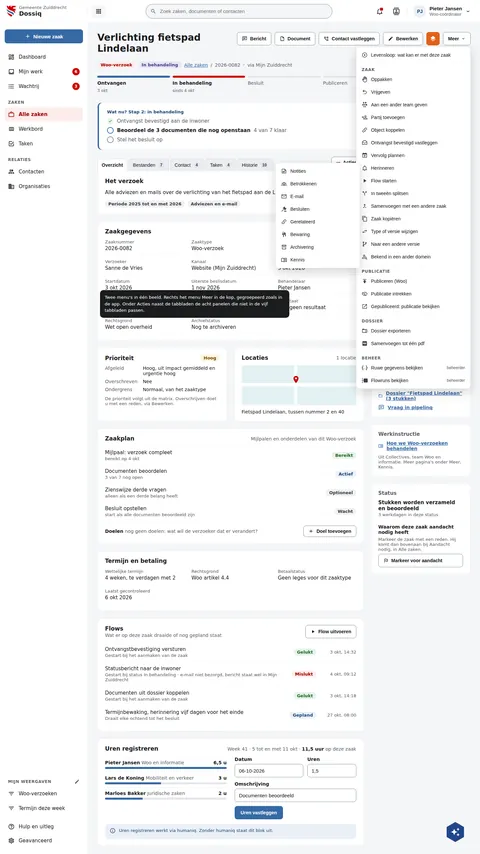
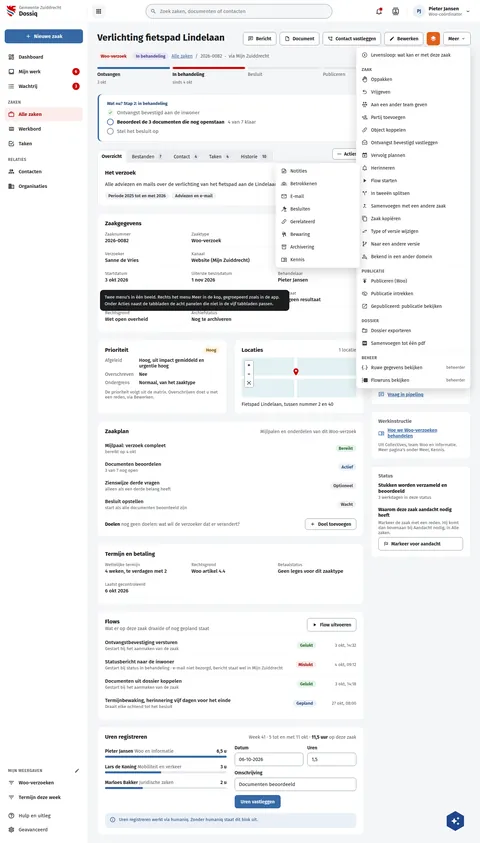
feat(screens): record boards gain live extras: the klantbeeld card and the map controls (#346)
Ruben 21 Oct: live extras the boards lack go onto the boards.
- DqZaakContact: "Contactmomenten in het klantbeeld" (pipelinq's contact
  moments on the case), as live draws it under the live conversation.
- DqZaak and DqZaakMeer: the Locaties map carries its zoom in, zoom out
  and fit-all controls, as the live map does.

Assisted-by: ClaudeCode:claude-opus-5-5

diff --git a/preview/screens/boards/DqZaakContact.html b/preview/screens/boards/DqZaakContact.html
@@ -354,7 +354,7 @@ a{color:var(--sc-primary, #3669a5)}a:hover{color:var(--sc-primary-deep, #234a78)
                 </table>
               </div>
             </section>
-<section style="background: #ffffff; border: 1px solid var(--sc-work-line, #e4e6ea); border-radius: 12px; padding: 20px 22px; display: flex; flex-direction: column; gap: 12px"><div style="display: flex; flex-wrap: wrap; justify-content: space-between; align-items: flex-start; gap: 10px"><div style="display: flex; flex-direction: column; gap: 2px; min-width: 0"><h2 style="margin: 0; font-size: 17px; font-weight: 700">Ontvangstbevestiging</h2><span style="font-size: 13px; color: var(--sc-work-muted, #5e6168)">Awb 4:3a: de verzoeker hoort dat het verzoek binnen is</span></div></div><dl style="margin: 0; display: grid; grid-template-columns: repeat(auto-fit, minmax(200px, 1fr)); gap: 10px 20px"><div style="display: flex; flex-direction: column; gap: 3px; padding-bottom: 10px; border-bottom: 1px solid var(--sc-work-soft, #eef0f3)"><dt style="font-size: 13px; color: var(--sc-work-muted, #5e6168)">Ontvangen op</dt><dd style="margin: 0; font-weight: 500">3 okt 2026, 14:10</dd></div><div style="display: flex; flex-direction: column; gap: 3px; padding-bottom: 10px; border-bottom: 1px solid var(--sc-work-soft, #eef0f3)"><dt style="font-size: 13px; color: var(--sc-work-muted, #5e6168)">Buiten werktijd ontvangen</dt><dd style="margin: 0; font-weight: 500">Nee</dd></div><div style="display: flex; flex-direction: column; gap: 3px; padding-bottom: 10px; border-bottom: 1px solid var(--sc-work-soft, #eef0f3)"><dt style="font-size: 13px; color: var(--sc-work-muted, #5e6168)">Termijn start op</dt><dd style="margin: 0; font-weight: 500">3 okt 2026</dd></div><div style="display: flex; flex-direction: column; gap: 3px; padding-bottom: 10px; border-bottom: 1px solid var(--sc-work-soft, #eef0f3)"><dt style="font-size: 13px; color: var(--sc-work-muted, #5e6168)">Uitgaande berichten</dt><dd style="margin: 0; font-weight: 500">Ontvangstbevestiging via Mijn Zuiddrecht, 3 okt 14:32</dd></div></dl><span style="font-size: 13px; color: var(--sc-work-muted, #5e6168)">Ging de bevestiging buiten dossiq om, dan legt u hem vast met Ontvangst bevestigd vastleggen, onder Meer.</span></section><section style="background: #ffffff; border: 1px solid var(--sc-work-line, #e4e6ea); border-radius: 12px; padding: 20px 22px; display: flex; flex-direction: column; gap: 12px"><div style="display: flex; flex-wrap: wrap; justify-content: space-between; align-items: flex-start; gap: 10px"><div style="display: flex; flex-direction: column; gap: 2px; min-width: 0"><h2 style="margin: 0; font-size: 17px; font-weight: 700">Live gesprek</h2><span style="font-size: 13px; color: var(--sc-work-muted, #5e6168)">Een gesprek in Talk, gestart vanuit deze zaak</span></div><span style="display: flex; flex-wrap: wrap; gap: 8px"><button type="button" style="display: inline-flex; align-items: center; gap: 8px; height: 40px; padding: 0 14px; border-radius: 8px; border: 1px solid var(--sc-work-field, #828a95); background: #ffffff; color: var(--sc-work-ink, #1b1c1d); font: 600 14px var(--sc-font, 'Fira Sans'), sans-serif; white-space: nowrap"><svg width="16" height="16" viewbox="0 0 24 24" fill="currentColor" aria-hidden="true"><path d="M8.27,3L3,8.27V15.73L8.27,21H15.73C17.5,19.24 21,15.73 21,15.73V8.27L15.73,3M9.1,5H14.9L19,9.1V14.9L14.9,19H9.1L5,14.9V9.1M11,15H13V17H11V15M11,7H13V13H11V7"></path></svg>Groot incident melden</button><button type="button" style="display: inline-flex; align-items: center; gap: 8px; height: 40px; padding: 0 14px; border-radius: 8px; border: 0; background: var(--sc-primary, #3669a5); color: #ffffff; font: 600 14px var(--sc-font, 'Fira Sans'), sans-serif; white-space: nowrap"><svg width="16" height="16" viewbox="0 0 24 24" fill="currentColor" aria-hidden="true"><path d="M17,10.5V7A1,1 0 0,0 16,6H4A1,1 0 0,0 3,7V17A1,1 0 0,0 4,18H16A1,1 0 0,0 17,17V13.5L21,17.5V6.5L17,10.5Z"></path></svg>Gesprek starten</button></span></div><ul style="margin: 0; padding: 0; list-style: none"><li style="display: flex; flex-wrap: wrap; gap: 6px 16px; align-items: center; padding: 10px 0; border-top: 1px solid var(--sc-work-soft, #eef0f3)"><span style="flex: 1 1 240px; display: flex; flex-direction: column; gap: 2px"><strong style="font-size: 15px; font-weight: 600">Gesprek met Sanne de Vries over de stukken</strong><span style="font-size: 13px; color: var(--sc-work-muted, #5e6168)">4 okt, 10:30 tot 10:42 · Pieter Jansen en Sanne de Vries · 12 minuten</span></span><span style="padding: 3px 10px; border-radius: 12px; background: var(--sc-work-chip, #f0f1f3); color: var(--sc-work-text, #3d4047); font-size: 13px; font-weight: 600; white-space: nowrap">Afgelopen</span></li></ul><span style="font-size: 13px; color: var(--sc-work-muted, #5e6168)">Elk gesprek dat u vanuit deze zaak start, komt hier: wanneer, wie er bij waren en hoe lang het duurde.</span></section>
+<section style="background: #ffffff; border: 1px solid var(--sc-work-line, #e4e6ea); border-radius: 12px; padding: 20px 22px; display: flex; flex-direction: column; gap: 12px"><div style="display: flex; flex-wrap: wrap; justify-content: space-between; align-items: flex-start; gap: 10px"><div style="display: flex; flex-direction: column; gap: 2px; min-width: 0"><h2 style="margin: 0; font-size: 17px; font-weight: 700">Ontvangstbevestiging</h2><span style="font-size: 13px; color: var(--sc-work-muted, #5e6168)">Awb 4:3a: de verzoeker hoort dat het verzoek binnen is</span></div></div><dl style="margin: 0; display: grid; grid-template-columns: repeat(auto-fit, minmax(200px, 1fr)); gap: 10px 20px"><div style="display: flex; flex-direction: column; gap: 3px; padding-bottom: 10px; border-bottom: 1px solid var(--sc-work-soft, #eef0f3)"><dt style="font-size: 13px; color: var(--sc-work-muted, #5e6168)">Ontvangen op</dt><dd style="margin: 0; font-weight: 500">3 okt 2026, 14:10</dd></div><div style="display: flex; flex-direction: column; gap: 3px; padding-bottom: 10px; border-bottom: 1px solid var(--sc-work-soft, #eef0f3)"><dt style="font-size: 13px; color: var(--sc-work-muted, #5e6168)">Buiten werktijd ontvangen</dt><dd style="margin: 0; font-weight: 500">Nee</dd></div><div style="display: flex; flex-direction: column; gap: 3px; padding-bottom: 10px; border-bottom: 1px solid var(--sc-work-soft, #eef0f3)"><dt style="font-size: 13px; color: var(--sc-work-muted, #5e6168)">Termijn start op</dt><dd style="margin: 0; font-weight: 500">3 okt 2026</dd></div><div style="display: flex; flex-direction: column; gap: 3px; padding-bottom: 10px; border-bottom: 1px solid var(--sc-work-soft, #eef0f3)"><dt style="font-size: 13px; color: var(--sc-work-muted, #5e6168)">Uitgaande berichten</dt><dd style="margin: 0; font-weight: 500">Ontvangstbevestiging via Mijn Zuiddrecht, 3 okt 14:32</dd></div></dl><span style="font-size: 13px; color: var(--sc-work-muted, #5e6168)">Ging de bevestiging buiten dossiq om, dan legt u hem vast met Ontvangst bevestigd vastleggen, onder Meer.</span></section><section style="background: #ffffff; border: 1px solid var(--sc-work-line, #e4e6ea); border-radius: 12px; padding: 20px 22px; display: flex; flex-direction: column; gap: 12px"><div style="display: flex; flex-wrap: wrap; justify-content: space-between; align-items: flex-start; gap: 10px"><div style="display: flex; flex-direction: column; gap: 2px; min-width: 0"><h2 style="margin: 0; font-size: 17px; font-weight: 700">Live gesprek</h2><span style="font-size: 13px; color: var(--sc-work-muted, #5e6168)">Een gesprek in Talk, gestart vanuit deze zaak</span></div><span style="display: flex; flex-wrap: wrap; gap: 8px"><button type="button" style="display: inline-flex; align-items: center; gap: 8px; height: 40px; padding: 0 14px; border-radius: 8px; border: 1px solid var(--sc-work-field, #828a95); background: #ffffff; color: var(--sc-work-ink, #1b1c1d); font: 600 14px var(--sc-font, 'Fira Sans'), sans-serif; white-space: nowrap"><svg width="16" height="16" viewbox="0 0 24 24" fill="currentColor" aria-hidden="true"><path d="M8.27,3L3,8.27V15.73L8.27,21H15.73C17.5,19.24 21,15.73 21,15.73V8.27L15.73,3M9.1,5H14.9L19,9.1V14.9L14.9,19H9.1L5,14.9V9.1M11,15H13V17H11V15M11,7H13V13H11V7"></path></svg>Groot incident melden</button><button type="button" style="display: inline-flex; align-items: center; gap: 8px; height: 40px; padding: 0 14px; border-radius: 8px; border: 0; background: var(--sc-primary, #3669a5); color: #ffffff; font: 600 14px var(--sc-font, 'Fira Sans'), sans-serif; white-space: nowrap"><svg width="16" height="16" viewbox="0 0 24 24" fill="currentColor" aria-hidden="true"><path d="M17,10.5V7A1,1 0 0,0 16,6H4A1,1 0 0,0 3,7V17A1,1 0 0,0 4,18H16A1,1 0 0,0 17,17V13.5L21,17.5V6.5L17,10.5Z"></path></svg>Gesprek starten</button></span></div><ul style="margin: 0; padding: 0; list-style: none"><li style="display: flex; flex-wrap: wrap; gap: 6px 16px; align-items: center; padding: 10px 0; border-top: 1px solid var(--sc-work-soft, #eef0f3)"><span style="flex: 1 1 240px; display: flex; flex-direction: column; gap: 2px"><strong style="font-size: 15px; font-weight: 600">Gesprek met Sanne de Vries over de stukken</strong><span style="font-size: 13px; color: var(--sc-work-muted, #5e6168)">4 okt, 10:30 tot 10:42 · Pieter Jansen en Sanne de Vries · 12 minuten</span></span><span style="padding: 3px 10px; border-radius: 12px; background: var(--sc-work-chip, #f0f1f3); color: var(--sc-work-text, #3d4047); font-size: 13px; font-weight: 600; white-space: nowrap">Afgelopen</span></li></ul><span style="font-size: 13px; color: var(--sc-work-muted, #5e6168)">Elk gesprek dat u vanuit deze zaak start, komt hier: wanneer, wie er bij waren en hoe lang het duurde.</span></section><section aria-label="Contactmomenten in het klantbeeld" style="background: #ffffff; border: 1px solid var(--sc-work-line, #e4e6ea); border-radius: 12px; padding: 20px 22px; display: flex; flex-direction: column; gap: 8px"><h2 style="margin: 0; font-size: 17px; font-weight: 700">Contactmomenten in het klantbeeld</h2><p style="margin: 0; font-size: 15px; color: var(--sc-work-text, #3d4047)">Uit pipelinq: elk contactmoment dat op deze zaak staat, ook als het op meer zaken staat. Nieuwste bovenaan.</p><p style="margin: 0; font-size: 15px; color: var(--sc-work-text, #3d4047)">Nog geen contactmomenten in het klantbeeld voor deze zaak</p></section>
           </div>
 
           <aside style="flex: 1 1 300px; min-width: 0; display: flex; flex-direction: column; gap: 20px">

diff --git a/screens-src/zuiddrecht/DqZaakContact.dc.html b/screens-src/zuiddrecht/DqZaakContact.dc.html
@@ -135,7 +135,7 @@ a{color:#3669a5}a:hover{color:#234a78}
                 </table>
               </div>
             </section>
-<section style="background: #ffffff; border: 1px solid #e4e6ea; border-radius: 12px; padding: 20px 22px; display: flex; flex-direction: column; gap: 12px"><div style="display: flex; flex-wrap: wrap; justify-content: space-between; align-items: flex-start; gap: 10px"><div style="display: flex; flex-direction: column; gap: 2px; min-width: 0"><h2 style="margin: 0; font-size: 17px; font-weight: 700">Ontvangstbevestiging</h2><span style="font-size: 13px; color: #5e6168">Awb 4:3a: de verzoeker hoort dat het verzoek binnen is</span></div></div><dl style="margin: 0; display: grid; grid-template-columns: repeat(auto-fit, minmax(200px, 1fr)); gap: 10px 20px"><div style="display: flex; flex-direction: column; gap: 3px; padding-bottom: 10px; border-bottom: 1px solid #eef0f3"><dt style="font-size: 13px; color: #5e6168">Ontvangen op</dt><dd style="margin: 0; font-weight: 500">3 okt 2026, 14:10</dd></div><div style="display: flex; flex-direction: column; gap: 3px; padding-bottom: 10px; border-bottom: 1px solid #eef0f3"><dt style="font-size: 13px; color: #5e6168">Buiten werktijd ontvangen</dt><dd style="margin: 0; font-weight: 500">Nee</dd></div><div style="display: flex; flex-direction: column; gap: 3px; padding-bottom: 10px; border-bottom: 1px solid #eef0f3"><dt style="font-size: 13px; color: #5e6168">Termijn start op</dt><dd style="margin: 0; font-weight: 500">3 okt 2026</dd></div><div style="display: flex; flex-direction: column; gap: 3px; padding-bottom: 10px; border-bottom: 1px solid #eef0f3"><dt style="font-size: 13px; color: #5e6168">Uitgaande berichten</dt><dd style="margin: 0; font-weight: 500">Ontvangstbevestiging via Mijn Zuiddrecht, 3 okt 14:32</dd></div></dl><span style="font-size: 13px; color: #5e6168">Ging de bevestiging buiten dossiq om, dan legt u hem vast met Ontvangst bevestigd vastleggen, onder Meer.</span></section><section style="background: #ffffff; border: 1px solid #e4e6ea; border-radius: 12px; padding: 20px 22px; display: flex; flex-direction: column; gap: 12px"><div style="display: flex; flex-wrap: wrap; justify-content: space-between; align-items: flex-start; gap: 10px"><div style="display: flex; flex-direction: column; gap: 2px; min-width: 0"><h2 style="margin: 0; font-size: 17px; font-weight: 700">Live gesprek</h2><span style="font-size: 13px; color: #5e6168">Een gesprek in Talk, gestart vanuit deze zaak</span></div><span style="display: flex; flex-wrap: wrap; gap: 8px"><button type="button" style="display: inline-flex; align-items: center; gap: 8px; height: 40px; padding: 0 14px; border-radius: 8px; border: 1px solid #828a95; background: #ffffff; color: #1b1c1d; font: 600 14px 'Fira Sans', sans-serif; white-space: nowrap"><svg width="16" height="16" viewBox="0 0 24 24" fill="currentColor" aria-hidden="true"><path d="M8.27,3L3,8.27V15.73L8.27,21H15.73C17.5,19.24 21,15.73 21,15.73V8.27L15.73,3M9.1,5H14.9L19,9.1V14.9L14.9,19H9.1L5,14.9V9.1M11,15H13V17H11V15M11,7H13V13H11V7"></path></svg>Groot incident melden</button><button type="button" style="display: inline-flex; align-items: center; gap: 8px; height: 40px; padding: 0 14px; border-radius: 8px; border: 0; background: #3669a5; color: #ffffff; font: 600 14px 'Fira Sans', sans-serif; white-space: nowrap"><svg width="16" height="16" viewBox="0 0 24 24" fill="currentColor" aria-hidden="true"><path d="M17,10.5V7A1,1 0 0,0 16,6H4A1,1 0 0,0 3,7V17A1,1 0 0,0 4,18H16A1,1 0 0,0 17,17V13.5L21,17.5V6.5L17,10.5Z"></path></svg>Gesprek starten</button></span></div><ul style="margin: 0; padding: 0; list-style: none"><li style="display: flex; flex-wrap: wrap; gap: 6px 16px; align-items: center; padding: 10px 0; border-top: 1px solid #eef0f3"><span style="flex: 1 1 240px; display: flex; flex-direction: column; gap: 2px"><strong style="font-size: 15px; font-weight: 600">Gesprek met Sanne de Vries over de stukken</strong><span style="font-size: 13px; color: #5e6168">4 okt, 10:30 tot 10:42 · Pieter Jansen en Sanne de Vries · 12 minuten</span></span><span style="padding: 3px 10px; border-radius: 12px; background: #f0f1f3; color: #3d4047; font-size: 13px; font-weight: 600; white-space: nowrap">Afgelopen</span></li></ul><span style="font-size: 13px; color: #5e6168">Elk gesprek dat u vanuit deze zaak start, komt hier: wanneer, wie er bij waren en hoe lang het duurde.</span></section>
+<section style="background: #ffffff; border: 1px solid #e4e6ea; border-radius: 12px; padding: 20px 22px; display: flex; flex-direction: column; gap: 12px"><div style="display: flex; flex-wrap: wrap; justify-content: space-between; align-items: flex-start; gap: 10px"><div style="display: flex; flex-direction: column; gap: 2px; min-width: 0"><h2 style="margin: 0; font-size: 17px; font-weight: 700">Ontvangstbevestiging</h2><span style="font-size: 13px; color: #5e6168">Awb 4:3a: de verzoeker hoort dat het verzoek binnen is</span></div></div><dl style="margin: 0; display: grid; grid-template-columns: repeat(auto-fit, minmax(200px, 1fr)); gap: 10px 20px"><div style="display: flex; flex-direction: column; gap: 3px; padding-bottom: 10px; border-bottom: 1px solid #eef0f3"><dt style="font-size: 13px; color: #5e6168">Ontvangen op</dt><dd style="margin: 0; font-weight: 500">3 okt 2026, 14:10</dd></div><div style="display: flex; flex-direction: column; gap: 3px; padding-bottom: 10px; border-bottom: 1px solid #eef0f3"><dt style="font-size: 13px; color: #5e6168">Buiten werktijd ontvangen</dt><dd style="margin: 0; font-weight: 500">Nee</dd></div><div style="display: flex; flex-direction: column; gap: 3px; padding-bottom: 10px; border-bottom: 1px solid #eef0f3"><dt style="font-size: 13px; color: #5e6168">Termijn start op</dt><dd style="margin: 0; font-weight: 500">3 okt 2026</dd></div><div style="display: flex; flex-direction: column; gap: 3px; padding-bottom: 10px; border-bottom: 1px solid #eef0f3"><dt style="font-size: 13px; color: #5e6168">Uitgaande berichten</dt><dd style="margin: 0; font-weight: 500">Ontvangstbevestiging via Mijn Zuiddrecht, 3 okt 14:32</dd></div></dl><span style="font-size: 13px; color: #5e6168">Ging de bevestiging buiten dossiq om, dan legt u hem vast met Ontvangst bevestigd vastleggen, onder Meer.</span></section><section style="background: #ffffff; border: 1px solid #e4e6ea; border-radius: 12px; padding: 20px 22px; display: flex; flex-direction: column; gap: 12px"><div style="display: flex; flex-wrap: wrap; justify-content: space-between; align-items: flex-start; gap: 10px"><div style="display: flex; flex-direction: column; gap: 2px; min-width: 0"><h2 style="margin: 0; font-size: 17px; font-weight: 700">Live gesprek</h2><span style="font-size: 13px; color: #5e6168">Een gesprek in Talk, gestart vanuit deze zaak</span></div><span style="display: flex; flex-wrap: wrap; gap: 8px"><button type="button" style="display: inline-flex; align-items: center; gap: 8px; height: 40px; padding: 0 14px; border-radius: 8px; border: 1px solid #828a95; background: #ffffff; color: #1b1c1d; font: 600 14px 'Fira Sans', sans-serif; white-space: nowrap"><svg width="16" height="16" viewBox="0 0 24 24" fill="currentColor" aria-hidden="true"><path d="M8.27,3L3,8.27V15.73L8.27,21H15.73C17.5,19.24 21,15.73 21,15.73V8.27L15.73,3M9.1,5H14.9L19,9.1V14.9L14.9,19H9.1L5,14.9V9.1M11,15H13V17H11V15M11,7H13V13H11V7"></path></svg>Groot incident melden</button><button type="button" style="display: inline-flex; align-items: center; gap: 8px; height: 40px; padding: 0 14px; border-radius: 8px; border: 0; background: #3669a5; color: #ffffff; font: 600 14px 'Fira Sans', sans-serif; white-space: nowrap"><svg width="16" height="16" viewBox="0 0 24 24" fill="currentColor" aria-hidden="true"><path d="M17,10.5V7A1,1 0 0,0 16,6H4A1,1 0 0,0 3,7V17A1,1 0 0,0 4,18H16A1,1 0 0,0 17,17V13.5L21,17.5V6.5L17,10.5Z"></path></svg>Gesprek starten</button></span></div><ul style="margin: 0; padding: 0; list-style: none"><li style="display: flex; flex-wrap: wrap; gap: 6px 16px; align-items: center; padding: 10px 0; border-top: 1px solid #eef0f3"><span style="flex: 1 1 240px; display: flex; flex-direction: column; gap: 2px"><strong style="font-size: 15px; font-weight: 600">Gesprek met Sanne de Vries over de stukken</strong><span style="font-size: 13px; color: #5e6168">4 okt, 10:30 tot 10:42 · Pieter Jansen en Sanne de Vries · 12 minuten</span></span><span style="padding: 3px 10px; border-radius: 12px; background: #f0f1f3; color: #3d4047; font-size: 13px; font-weight: 600; white-space: nowrap">Afgelopen</span></li></ul><span style="font-size: 13px; color: #5e6168">Elk gesprek dat u vanuit deze zaak start, komt hier: wanneer, wie er bij waren en hoe lang het duurde.</span></section><section aria-label="Contactmomenten in het klantbeeld" style="background: #ffffff; border: 1px solid #e4e6ea; border-radius: 12px; padding: 20px 22px; display: flex; flex-direction: column; gap: 8px"><h2 style="margin: 0; font-size: 17px; font-weight: 700">Contactmomenten in het klantbeeld</h2><p style="margin: 0; font-size: 15px; color: #3d4047">Uit pipelinq: elk contactmoment dat op deze zaak staat, ook als het op meer zaken staat. Nieuwste bovenaan.</p><p style="margin: 0; font-size: 15px; color: #3d4047">Nog geen contactmomenten in het klantbeeld voor deze zaak</p></section>
           </div>
 
           <aside style="flex: 1 1 300px; min-width: 0; display: flex; flex-direction: column; gap: 20px">

diff --git a/preview/screens/boards/DqZaak.html b/preview/screens/boards/DqZaak.html
@@ -243,7 +243,7 @@ a{color:var(--sc-primary, #3669a5)}a:hover{color:var(--sc-primary-deep, #234a78)
               </section>
               <section aria-labelledby="lo-titel" style="background: #ffffff; border: 1px solid var(--sc-work-line, #e4e6ea); border-radius: 12px; padding: 20px 22px; display: flex; flex-direction: column; gap: 12px">
                 <div style="display: flex; justify-content: space-between; align-items: center; gap: 10px"><h2 id="lo-titel" style="margin: 0; font-size: 17px; font-weight: 700">Locaties</h2><span style="font-size: 14px; color: var(--sc-work-muted, #5e6168)">1 locatie</span></div>
-                <div role="img" aria-label="Kaart met een pin op de Lindelaan" style="position: relative; height: 120px; border-radius: 8px; background: #e3f1f3; overflow: hidden"><span style="position: absolute; left: 0; right: 0; top: 54px; height: 10px; background: #ffffff"></span><span style="position: absolute; left: 46%; top: 0; bottom: 0; width: 8px; background: #ffffff"></span><span style="position: absolute; left: calc(46% - 8px); top: 30px; color: var(--sc-accent, #cc0000)"><svg width="26" height="26" viewbox="0 0 24 24" fill="currentColor"><path d="M12,11.5A2.5,2.5 0 0,1 9.5,9A2.5,2.5 0 0,1 12,6.5A2.5,2.5 0 0,1 14.5,9A2.5,2.5 0 0,1 12,11.5M12,2A7,7 0 0,0 5,9C5,14.25 12,22 12,22C12,22 19,14.25 19,9A7,7 0 0,0 12,2Z"></path></svg></span></div>
+                <div role="img" aria-label="Kaart met een pin op de Lindelaan" style="position: relative; height: 120px; border-radius: 8px; background: #e3f1f3; overflow: hidden"><span aria-hidden="true" style="position: absolute; left: 8px; top: 8px; z-index: 1; display: flex; flex-direction: column; border: 1px solid var(--sc-work-field, #828a95); border-radius: 4px; overflow: hidden"><span style="display: flex; align-items: center; justify-content: center; width: 26px; height: 26px; background: #ffffff; color: var(--sc-work-ink, #1b1c1d); font: 700 16px var(--sc-font, 'Fira Sans'), sans-serif; border-bottom: 1px solid var(--sc-work-line, #e4e6ea)">+</span><span style="display: flex; align-items: center; justify-content: center; width: 26px; height: 26px; background: #ffffff; color: var(--sc-work-ink, #1b1c1d); font: 700 16px var(--sc-font, 'Fira Sans'), sans-serif; border-bottom: 1px solid var(--sc-work-line, #e4e6ea)">−</span><span style="display: flex; align-items: center; justify-content: center; width: 26px; height: 26px; background: #ffffff; color: var(--sc-work-ink, #1b1c1d); font: 700 16px var(--sc-font, 'Fira Sans'), sans-serif"><svg width="14" height="14" viewbox="0 0 24 24" fill="currentColor"><path d="M5,15H3V19A2,2 0 0,0 5,21H9V19H5M5,5H9V3H5A2,2 0 0,0 3,5V9H5M19,3H15V5H19V9H21V5A2,2 0 0,0 19,3M19,19H15V21H19A2,2 0 0,0 21,19V15H19M12,8A4,4 0 0,0 8,12A4,4 0 0,0 12,16A4,4 0 0,0 16,12A4,4 0 0,0 12,8Z"></path></svg></span></span><span style="position: absolute; left: 0; right: 0; top: 54px; height: 10px; background: #ffffff"></span><span style="position: absolute; left: 46%; top: 0; bottom: 0; width: 8px; background: #ffffff"></span><span style="position: absolute; left: calc(46% - 8px); top: 30px; color: var(--sc-accent, #cc0000)"><svg width="26" height="26" viewbox="0 0 24 24" fill="currentColor"><path d="M12,11.5A2.5,2.5 0 0,1 9.5,9A2.5,2.5 0 0,1 12,6.5A2.5,2.5 0 0,1 14.5,9A2.5,2.5 0 0,1 12,11.5M12,2A7,7 0 0,0 5,9C5,14.25 12,22 12,22C12,22 19,14.25 19,9A7,7 0 0,0 12,2Z"></path></svg></span></div>
                 <span style="font-size: 14px">Fietspad Lindelaan, tussen nummer 2 en 40</span>
               </section>
             </div>

diff --git a/preview/screens/boards/DqZaakMeer.html b/preview/screens/boards/DqZaakMeer.html
@@ -242,7 +242,7 @@ a{color:var(--sc-primary, #3669a5)}a:hover{color:var(--sc-primary-deep, #234a78)
               </section>
               <section aria-labelledby="lo-titel" style="background: #ffffff; border: 1px solid var(--sc-work-line, #e4e6ea); border-radius: 12px; padding: 20px 22px; display: flex; flex-direction: column; gap: 12px">
                 <div style="display: flex; justify-content: space-between; align-items: center; gap: 10px"><h2 id="lo-titel" style="margin: 0; font-size: 17px; font-weight: 700">Locaties</h2><span style="font-size: 14px; color: var(--sc-work-muted, #5e6168)">1 locatie</span></div>
-                <div role="img" aria-label="Kaart met een pin op de Lindelaan" style="position: relative; height: 120px; border-radius: 8px; background: #e3f1f3; overflow: hidden"><span style="position: absolute; left: 0; right: 0; top: 54px; height: 10px; background: #ffffff"></span><span style="position: absolute; left: 46%; top: 0; bottom: 0; width: 8px; background: #ffffff"></span><span style="position: absolute; left: calc(46% - 8px); top: 30px; color: var(--sc-accent, #cc0000)"><svg width="26" height="26" viewbox="0 0 24 24" fill="currentColor"><path d="M12,11.5A2.5,2.5 0 0,1 9.5,9A2.5,2.5 0 0,1 12,6.5A2.5,2.5 0 0,1 14.5,9A2.5,2.5 0 0,1 12,11.5M12,2A7,7 0 0,0 5,9C5,14.25 12,22 12,22C12,22 19,14.25 19,9A7,7 0 0,0 12,2Z"></path></svg></span></div>
+                <div role="img" aria-label="Kaart met een pin op de Lindelaan" style="position: relative; height: 120px; border-radius: 8px; background: #e3f1f3; overflow: hidden"><span aria-hidden="true" style="position: absolute; left: 8px; top: 8px; z-index: 1; display: flex; flex-direction: column; border: 1px solid var(--sc-work-field, #828a95); border-radius: 4px; overflow: hidden"><span style="display: flex; align-items: center; justify-content: center; width: 26px; height: 26px; background: #ffffff; color: var(--sc-work-ink, #1b1c1d); font: 700 16px var(--sc-font, 'Fira Sans'), sans-serif; border-bottom: 1px solid var(--sc-work-line, #e4e6ea)">+</span><span style="display: flex; align-items: center; justify-content: center; width: 26px; height: 26px; background: #ffffff; color: var(--sc-work-ink, #1b1c1d); font: 700 16px var(--sc-font, 'Fira Sans'), sans-serif; border-bottom: 1px solid var(--sc-work-line, #e4e6ea)">−</span><span style="display: flex; align-items: center; justify-content: center; width: 26px; height: 26px; background: #ffffff; color: var(--sc-work-ink, #1b1c1d); font: 700 16px var(--sc-font, 'Fira Sans'), sans-serif"><svg width="14" height="14" viewbox="0 0 24 24" fill="currentColor"><path d="M5,15H3V19A2,2 0 0,0 5,21H9V19H5M5,5H9V3H5A2,2 0 0,0 3,5V9H5M19,3H15V5H19V9H21V5A2,2 0 0,0 19,3M19,19H15V21H19A2,2 0 0,0 21,19V15H19M12,8A4,4 0 0,0 8,12A4,4 0 0,0 12,16A4,4 0 0,0 16,12A4,4 0 0,0 12,8Z"></path></svg></span></span><span style="position: absolute; left: 0; right: 0; top: 54px; height: 10px; background: #ffffff"></span><span style="position: absolute; left: 46%; top: 0; bottom: 0; width: 8px; background: #ffffff"></span><span style="position: absolute; left: calc(46% - 8px); top: 30px; color: var(--sc-accent, #cc0000)"><svg width="26" height="26" viewbox="0 0 24 24" fill="currentColor"><path d="M12,11.5A2.5,2.5 0 0,1 9.5,9A2.5,2.5 0 0,1 12,6.5A2.5,2.5 0 0,1 14.5,9A2.5,2.5 0 0,1 12,11.5M12,2A7,7 0 0,0 5,9C5,14.25 12,22 12,22C12,22 19,14.25 19,9A7,7 0 0,0 12,2Z"></path></svg></span></div>
                 <span style="font-size: 14px">Fietspad Lindelaan, tussen nummer 2 en 40</span>
               </section>
             </div>

diff --git a/screens-src/zuiddrecht/DqZaak.dc.html b/screens-src/zuiddrecht/DqZaak.dc.html
@@ -93,7 +93,7 @@ a{color:#3669a5}a:hover{color:#234a78}
               </section>
               <section aria-labelledby="lo-titel" style="background: #ffffff; border: 1px solid #e4e6ea; border-radius: 12px; padding: 20px 22px; display: flex; flex-direction: column; gap: 12px">
                 <div style="display: flex; justify-content: space-between; align-items: center; gap: 10px"><h2 id="lo-titel" style="margin: 0; font-size: 17px; font-weight: 700">Locaties</h2><span style="font-size: 14px; color: #5e6168">1 locatie</span></div>
-                <div role="img" aria-label="Kaart met een pin op de Lindelaan" style="position: relative; height: 120px; border-radius: 8px; background: #e3f1f3; overflow: hidden"><span style="position: absolute; left: 0; right: 0; top: 54px; height: 10px; background: #ffffff"></span><span style="position: absolute; left: 46%; top: 0; bottom: 0; width: 8px; background: #ffffff"></span><span style="position: absolute; left: calc(46% - 8px); top: 30px; color: #cc0000"><svg width="26" height="26" viewBox="0 0 24 24" fill="currentColor"><path d="M12,11.5A2.5,2.5 0 0,1 9.5,9A2.5,2.5 0 0,1 12,6.5A2.5,2.5 0 0,1 14.5,9A2.5,2.5 0 0,1 12,11.5M12,2A7,7 0 0,0 5,9C5,14.25 12,22 12,22C12,22 19,14.25 19,9A7,7 0 0,0 12,2Z"></path></svg></span></div>
+                <div role="img" aria-label="Kaart met een pin op de Lindelaan" style="position: relative; height: 120px; border-radius: 8px; background: #e3f1f3; overflow: hidden"><span aria-hidden="true" style="position: absolute; left: 8px; top: 8px; z-index: 1; display: flex; flex-direction: column; border: 1px solid #828a95; border-radius: 4px; overflow: hidden"><span style="display: flex; align-items: center; justify-content: center; width: 26px; height: 26px; background: #ffffff; color: #1b1c1d; font: 700 16px 'Fira Sans', sans-serif; border-bottom: 1px solid #e4e6ea">+</span><span style="display: flex; align-items: center; justify-content: center; width: 26px; height: 26px; background: #ffffff; color: #1b1c1d; font: 700 16px 'Fira Sans', sans-serif; border-bottom: 1px solid #e4e6ea">−</span><span style="display: flex; align-items: center; justify-content: center; width: 26px; height: 26px; background: #ffffff; color: #1b1c1d; font: 700 16px 'Fira Sans', sans-serif"><svg width="14" height="14" viewBox="0 0 24 24" fill="currentColor"><path d="M5,15H3V19A2,2 0 0,0 5,21H9V19H5M5,5H9V3H5A2,2 0 0,0 3,5V9H5M19,3H15V5H19V9H21V5A2,2 0 0,0 19,3M19,19H15V21H19A2,2 0 0,0 21,19V15H19M12,8A4,4 0 0,0 8,12A4,4 0 0,0 12,16A4,4 0 0,0 16,12A4,4 0 0,0 12,8Z"></path></svg></span></span><span style="position: absolute; left: 0; right: 0; top: 54px; height: 10px; background: #ffffff"></span><span style="position: absolute; left: 46%; top: 0; bottom: 0; width: 8px; background: #ffffff"></span><span style="position: absolute; left: calc(46% - 8px); top: 30px; color: #cc0000"><svg width="26" height="26" viewBox="0 0 24 24" fill="currentColor"><path d="M12,11.5A2.5,2.5 0 0,1 9.5,9A2.5,2.5 0 0,1 12,6.5A2.5,2.5 0 0,1 14.5,9A2.5,2.5 0 0,1 12,11.5M12,2A7,7 0 0,0 5,9C5,14.25 12,22 12,22C12,22 19,14.25 19,9A7,7 0 0,0 12,2Z"></path></svg></span></div>
                 <span style="font-size: 14px">Fietspad Lindelaan, tussen nummer 2 en 40</span>
               </section>
             </div>

diff --git a/screens-src/zuiddrecht/DqZaakMeer.dc.html b/screens-src/zuiddrecht/DqZaakMeer.dc.html
@@ -92,7 +92,7 @@ a{color:#3669a5}a:hover{color:#234a78}
               </section>
               <section aria-labelledby="lo-titel" style="background: #ffffff; border: 1px solid #e4e6ea; border-radius: 12px; padding: 20px 22px; display: flex; flex-direction: column; gap: 12px">
                 <div style="display: flex; justify-content: space-between; align-items: center; gap: 10px"><h2 id="lo-titel" style="margin: 0; font-size: 17px; font-weight: 700">Locaties</h2><span style="font-size: 14px; color: #5e6168">1 locatie</span></div>
-                <div role="img" aria-label="Kaart met een pin op de Lindelaan" style="position: relative; height: 120px; border-radius: 8px; background: #e3f1f3; overflow: hidden"><span style="position: absolute; left: 0; right: 0; top: 54px; height: 10px; background: #ffffff"></span><span style="position: absolute; left: 46%; top: 0; bottom: 0; width: 8px; background: #ffffff"></span><span style="position: absolute; left: calc(46% - 8px); top: 30px; color: #cc0000"><svg width="26" height="26" viewBox="0 0 24 24" fill="currentColor"><path d="M12,11.5A2.5,2.5 0 0,1 9.5,9A2.5,2.5 0 0,1 12,6.5A2.5,2.5 0 0,1 14.5,9A2.5,2.5 0 0,1 12,11.5M12,2A7,7 0 0,0 5,9C5,14.25 12,22 12,22C12,22 19,14.25 19,9A7,7 0 0,0 12,2Z"></path></svg></span></div>
+                <div role="img" aria-label="Kaart met een pin op de Lindelaan" style="position: relative; height: 120px; border-radius: 8px; background: #e3f1f3; overflow: hidden"><span aria-hidden="true" style="position: absolute; left: 8px; top: 8px; z-index: 1; display: flex; flex-direction: column; border: 1px solid #828a95; border-radius: 4px; overflow: hidden"><span style="display: flex; align-items: center; justify-content: center; width: 26px; height: 26px; background: #ffffff; color: #1b1c1d; font: 700 16px 'Fira Sans', sans-serif; border-bottom: 1px solid #e4e6ea">+</span><span style="display: flex; align-items: center; justify-content: center; width: 26px; height: 26px; background: #ffffff; color: #1b1c1d; font: 700 16px 'Fira Sans', sans-serif; border-bottom: 1px solid #e4e6ea">−</span><span style="display: flex; align-items: center; justify-content: center; width: 26px; height: 26px; background: #ffffff; color: #1b1c1d; font: 700 16px 'Fira Sans', sans-serif"><svg width="14" height="14" viewBox="0 0 24 24" fill="currentColor"><path d="M5,15H3V19A2,2 0 0,0 5,21H9V19H5M5,5H9V3H5A2,2 0 0,0 3,5V9H5M19,3H15V5H19V9H21V5A2,2 0 0,0 19,3M19,19H15V21H19A2,2 0 0,0 21,19V15H19M12,8A4,4 0 0,0 8,12A4,4 0 0,0 12,16A4,4 0 0,0 16,12A4,4 0 0,0 12,8Z"></path></svg></span></span><span style="position: absolute; left: 0; right: 0; top: 54px; height: 10px; background: #ffffff"></span><span style="position: absolute; left: 46%; top: 0; bottom: 0; width: 8px; background: #ffffff"></span><span style="position: absolute; left: calc(46% - 8px); top: 30px; color: #cc0000"><svg width="26" height="26" viewBox="0 0 24 24" fill="currentColor"><path d="M12,11.5A2.5,2.5 0 0,1 9.5,9A2.5,2.5 0 0,1 12,6.5A2.5,2.5 0 0,1 14.5,9A2.5,2.5 0 0,1 12,11.5M12,2A7,7 0 0,0 5,9C5,14.25 12,22 12,22C12,22 19,14.25 19,9A7,7 0 0,0 12,2Z"></path></svg></span></div>
                 <span style="font-size: 14px">Fietspad Lindelaan, tussen nummer 2 en 40</span>
               </section>
             </div>
